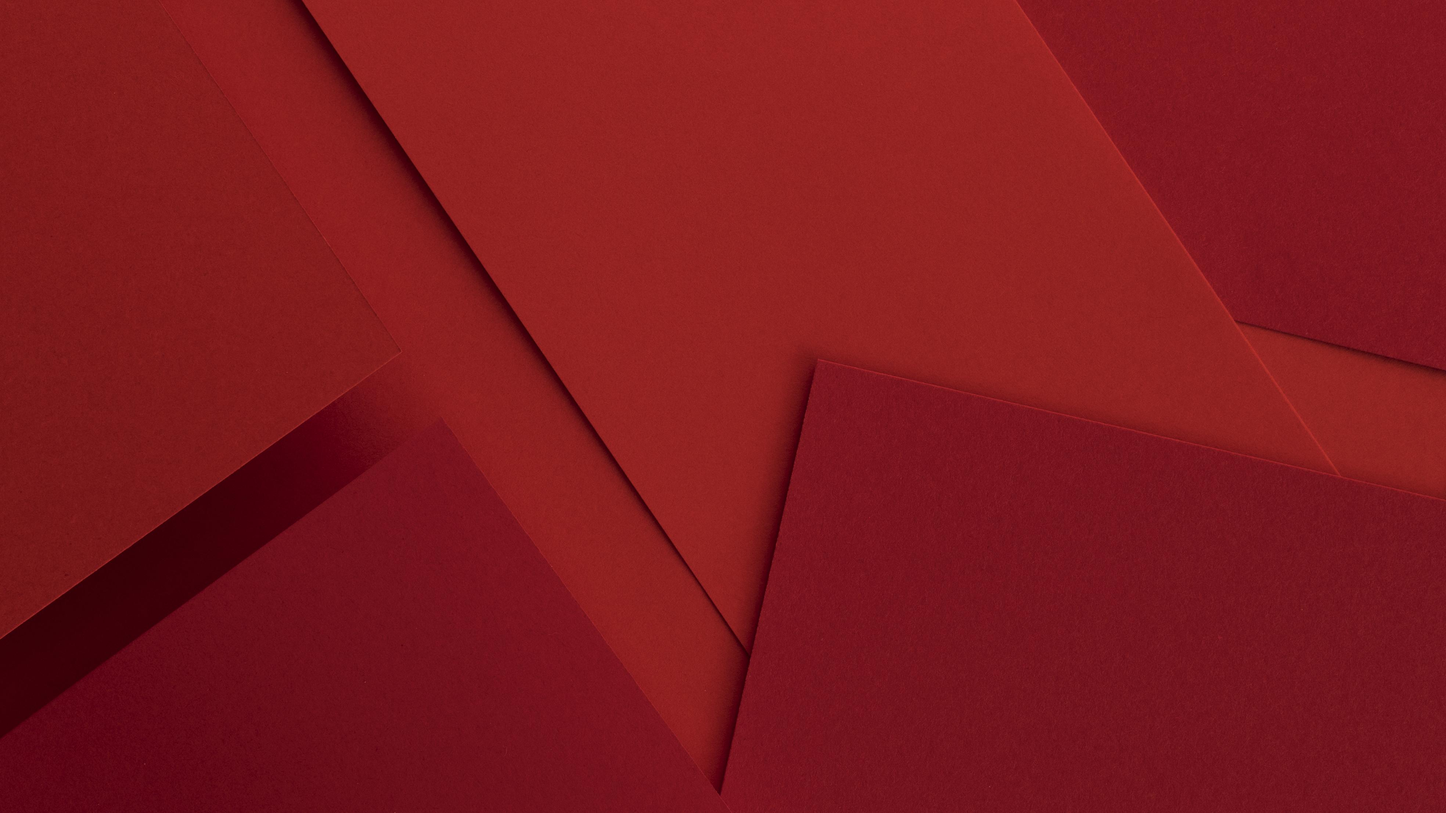
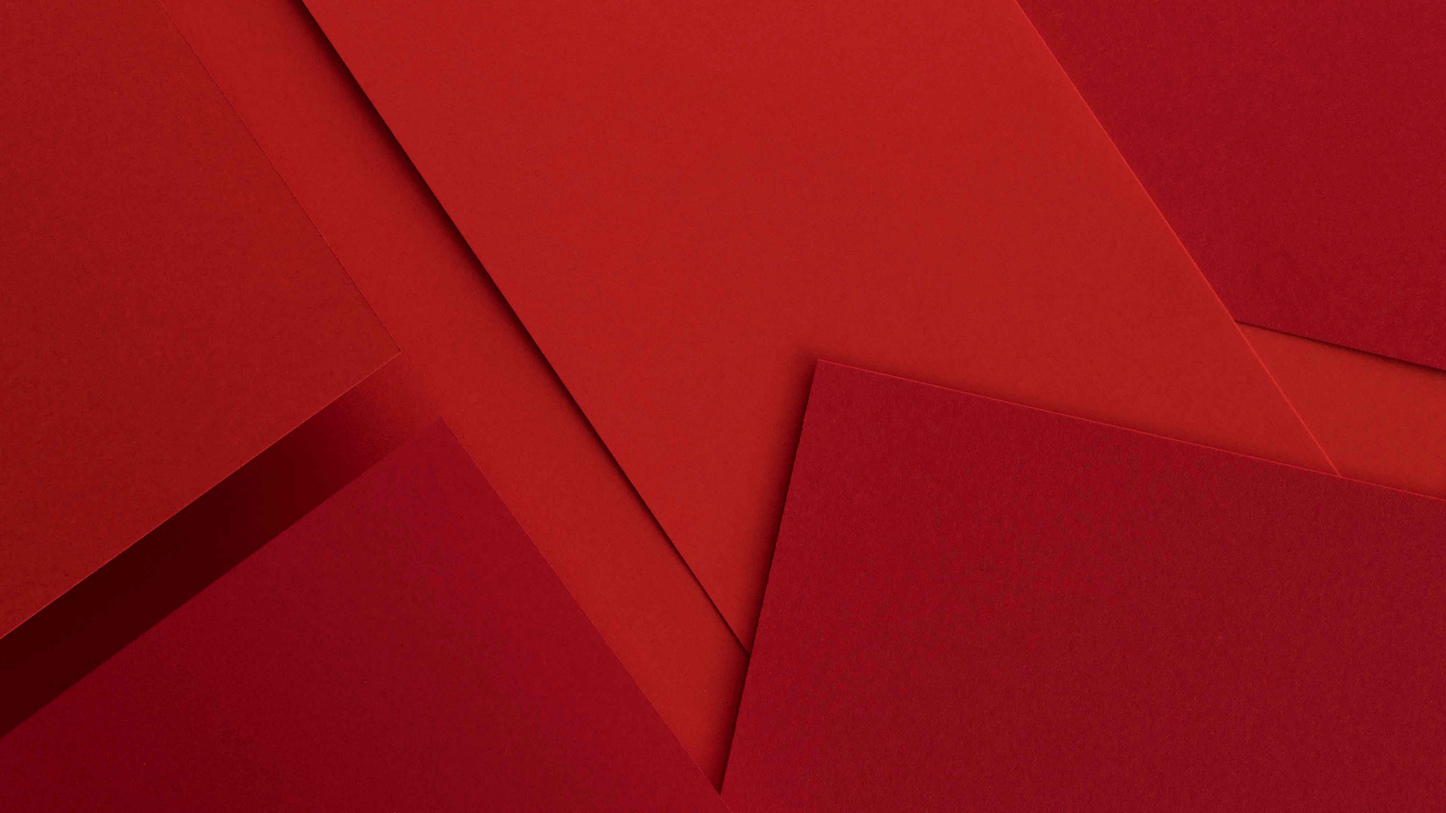
commmit

diff --git a/css/custom.css b/css/custom.css
@@ -46,7 +46,7 @@ h6 {
   height: 300px;
   min-height: 35rem;
   padding: 15rem 0;
-  background: linear-gradient(to bottom, rgba(0, 0, 0, 0.3) 0%, rgba(0, 0, 0, 0.7) 75%, #000000 100%), url("../img/eleganbb.png");
+  background: linear-gradient(to bottom, rgba(0, 0, 0, 0.3) 0%, rgba(0, 0, 0, 0.7) 75%, #000000 100%), url("../img/eleganbb.jpg");
   background-position: center;
   background-repeat: no-repeat;
   background-attachment: scroll;

diff --git a/index.php b/index.php
@@ -125,7 +125,7 @@
     </section>
 
     <section class="hotspots--wrapper ">
-        <img src="img/p2.png" class="hotspots--figure">
+        <img src="img/p2.jpg" class="hotspots--figure">
         <a class="hotspot hotspot--1" href="https://www.facebook.com/SCGHOMEBoonthavornWarin/">
             <span class="hotspot--title hotspot--title__right kanit" style="background-color:rgba(120, 174, 151, 0.4);">กระเบื้องพื้น</span>
             <span class="hotspot--cta"></span>
@@ -447,7 +447,7 @@
                     <button type="button" class="close" data-dismiss="modal">&times;</button>
                 </div>
                 <div class="modal-body">
-                    <img class="img-fluid" src="img/sub.png" alt="" />
+                    <img class="img-fluid" src="img/sub.jpg" alt="" />
                     <div class="text-center">
                         <a class="kanit buttonb js-scroll-trigger" href="from.php"> สมัครเลย </a>
                     </div>
